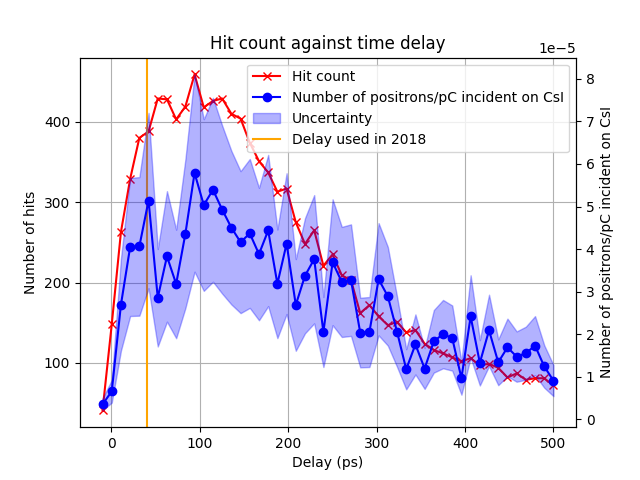
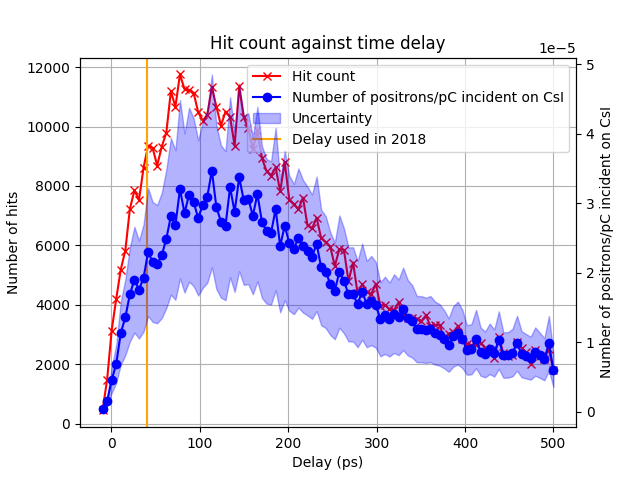
Changed ticking process

diff --git a/analysis.py b/analysis.py
@@ -1,0 +1,50 @@
+import numpy as np
+import matplotlib.pyplot as plt
+from scipy.integrate import dblquad, quad
+from tqdm import tqdm
+
+import optimisation_simulation.theory.values as values  #pylind: disable=import-error
+
+def xray_gauss(t, x, y):
+    return (
+        np.exp( - ( np.sqrt( x**2 + y**2 ) - values.c * t - values.xray_FWHM * 1e-3 / 2.3548 ) ** 2 / (2 *  ( values.xray_FWHM * 1e-3 / 2.3548 ) ** 2 ) )
+    )
+
+def area_func(t, delay):
+    xmin = values.c * ( t - delay )
+    xmax = xmin + values.gamma_length * 1e-3
+    ymin = values.off_axial_dist * 1e-3
+    ymax = ymin + values.gamma_radius * 1e-3
+    return (
+        dblquad(lambda y, x: xray_gauss(t, x, y), xmin, xmax, ymin, ymax)[0]
+    )
+
+def sum_area_func(t_range, delay):
+    hit_count = 0
+    hit_count_list = []
+    for t in t_range:
+        hit_count += area_func(t, delay)
+        hit_count_list.append(area_func(t, delay)[0])
+    return np.max(hit_count_list)
+
+def int_area_func(delay):
+    return (
+        quad(lambda t: area_func(t, delay), 0, np.inf)[0]
+    )
+
+
+if __name__ == '__main__':
+    time = np.linspace(0,1000, 100) * 1e-12
+    # time = np.arange(0, 500, 45e-3) * 1e-12
+    delay_list = np.linspace(0,500) * 1e-12
+    
+    hit_list = []
+    for t0 in tqdm(delay_list, desc='Integrating'):
+        hit_list.append(int_area_func(t0))
+    
+    plt.title('estimated hit counting')
+    plt.xlabel('delay/ps')
+    plt.ylabel('BW pairs (AU)')
+
+    plt.plot(delay_list * 1e12, hit_list)
+    plt.show()

diff --git a/optimisation_simulation/data_analysis/plot_optimise_data.py b/optimisation_simulation/data_analysis/plot_optimise_data.py
@@ -6,6 +6,7 @@ function
 """
 import numpy as np
 import matplotlib.pyplot as plt
+from matplotlib.ticker import ScalarFormatter
 
 def plot_optimised_data(filename: str, variable_name: str, xlabel: str, **kwargs):
     """Plots the optimise data with option to save the figure generated
@@ -30,7 +31,7 @@ def plot_optimised_data(filename: str, variable_name: str, xlabel: str, **kwargs
     data = np.loadtxt(filename, delimiter=',', skiprows=1)
 
     d = data[:,0]
-    npos = data[:,1]
+    npos = data[:,1] 
     npos_err = data[:,2]
 
     _, ax = plt.subplots()
@@ -59,6 +60,10 @@ def plot_optimised_data(filename: str, variable_name: str, xlabel: str, **kwargs
             ymin = 0, ymax = 1,
             label = f'{variable_name} used in 2018', color = 'orange')
 
+    # Force scientific notation with offset (1e5) on the y-axis
+    formatter = ScalarFormatter(useMathText=True)
+    formatter.set_powerlimits((0, 0))  # Always use scientific notation
+    ax.yaxis.set_major_formatter(formatter)
     ax.set_axisbelow(True)
     ax.grid()
     ax.legend()

diff --git a/analytical_modelling.py b/analytical_modelling.py
@@ -33,13 +33,12 @@ t_delay_scaled = t_delay * 1e12
 tmin = get_tmin(t_delay, d, width)
 tmax = get_tmax(t_delay, d, R, width)
 
-plt.title('Analytical time delay hit count relation')
+plt.title('Positron count function')
 plt.xlabel('time delay (ps)')
-plt.ylabel('hit count (arbritary units)')
+plt.ylabel('$n_{hits}(t_0)$ (AU)')
 # plt.ylim(-1e13, 3e13)
 # plt.plot(t_delay_scaled, 1/tmin, label='tmin')
 # plt.plot(t_delay_scaled, 1/tmax, label='tmax2')
 test = (1/tmin-1/tmax)
 plt.plot(t_delay_scaled, test, label='est npairs')
-plt.legend()
 plt.show()

diff --git a/optimisation_simulation/docs/index.rst b/optimisation_simulation/docs/index.rst
@@ -103,10 +103,10 @@ Plasma Physics, without whom none of this would be possible.
 References
 ----------
 .. [1] G. Breit & J.A. Wheeler 1934. *Collision of Two Light Quanta*. Phys. Rev. 46, 1087
-.. [2] B. Kettle et al. 2021. *A laser–plasma platform for photon–photon physics:* New J. Phys. 23 115006
+.. [2] B. Kettle et al. 2021. *A laser–plasma platform for photon–photon physics* New J. Phys. 23 115006
 .. [3] D. Hollatz 2021. *Detection of Positrons from Breit-Wheeler Pair Formation* PhD thesis. Friedrich Schiller University Jena.
 .. [4] C. Colgan 2022. *Laser-Plasma Interactions as Tools for Studying Processes in Quantum Electrodynamics*. PhD thesis. Imperial College London.
-.. [5] R. Watt 2021. *Monte Carlo Modelling of QED Interactions in Laser-Plasma Experiments*
+.. [5] R. Watt 2021. *Monte Carlo Modelling of QED Interactions in Laser-Plasma Experiments*. PhD thesis. Imperial College London.
 
 .. toctree::
    :maxdepth: 2
